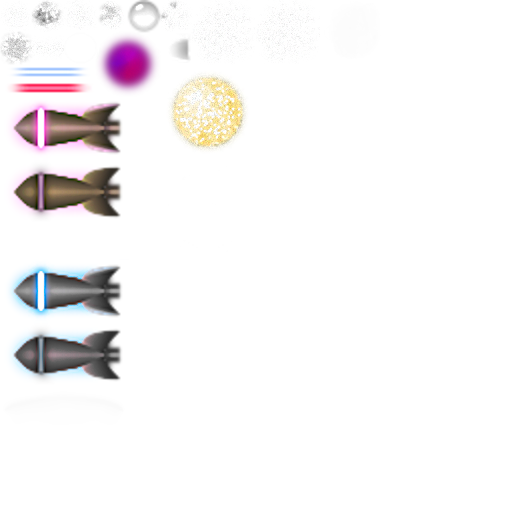
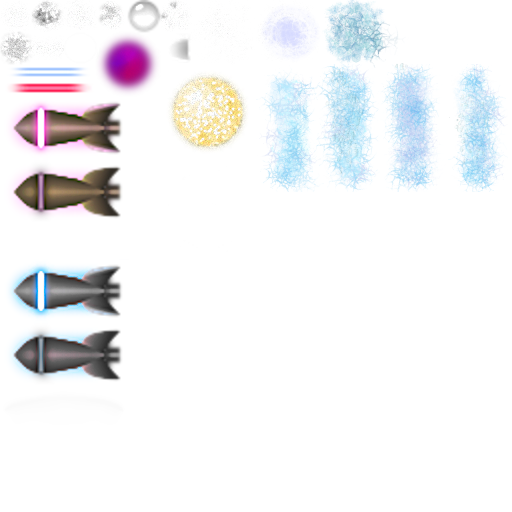
ammo new look

diff --git a/src/Particles/AmmoLightning.cpp b/src/Particles/AmmoLightning.cpp
@@ -17,6 +17,8 @@ this program.  If not, see <http://www.gnu.org/licenses/>. */
 
 #include "Particles/AmmoLightning.hpp"
 
+#include "SpaceObjects/physics.hpp"
+#include "System/Vector2f.hpp"
 #include "System/timer.hpp"
 #include "System/settings.hpp"
 #include "Particles/particles.hpp"
@@ -31,15 +33,22 @@ AmmoLightning::AmmoLightning(
     Vector2f const& location, Vector2f const& direction,
     Vector2f const& velocity, Color3f const& color,
     Player* damageSource)
-    :Particle<AmmoLightning>(spaceObjects::oAmmoLightning, location, 8.f, 1.0f, randomizer::random(12.f, 15.f))
+    :Particle<AmmoLightning>(spaceObjects::oAmmoLightning, location, 8.f, 0.001f, randomizer::random(0.4f, 1.5f))
 {
+    cloud_ = true;
     setDamageSource(damageSource);
-    velocity_ = velocity + direction*900;
+    Vector2f side(direction.y_, -direction.x_);
+
+    velocity_ = velocity + direction * randomizer::random(1500.f, 2400.f) +
+        200.f * side * randomizer::random(-1.f, 1.f) +
+        Vector2f::randDir() * randomizer::random(0.f, 100.f);
+    acceleration_ = -randomizer::random(300.f, 600.f);
+
     location_ += velocity_*timer::frameTime()*1.2f;
+    radius_ = randomizer::random(6.f, 9.f) * 4.f;
+    size_ = radius_;
 
-    radius_ = randomizer::random(6.f, 8.f);
-
-    color_ = Color3f(randomizer::random(0.0f, 0.4f), randomizer::random(0.8f, 1.f), randomizer::random(0.0f, 0.4f));
+    color_ = Color3f(randomizer::random(0.5f, 0.9f), randomizer::random(0.6f, 0.8f), 1.f);
 }
 
 
@@ -47,44 +56,61 @@ void AmmoLightning::update()
 {
     float time = timer::frameTime();
 
-    physics::collide(this, STATICS | MOBILES | PARTICLES);
-    Vector2f acceleration = physics::attract(this)*0.8f;
+    physics::overlap(this, MOBILES);
 
-    if (lifeTime_ > totalLifeTime_-0.3f)
-        radius_ = -400.0 * pow(lifeTime_+0.2-totalLifeTime_, 2)+12;
+    radius_ = size_ + 1400.f * std::min(2.f, 3.f * lifeTime_);
 
-    location_ += velocity_*time + acceleration*time*time;
-    velocity_ += acceleration*time - 2.5f*velocity_*time;
+    location_ += velocity_*time;
+    Vector2f const dir(velocity_.normalize());
+    velocity_ += acceleration_ * dir * time;
     borders();
 
     lifeTime_ += time;
-
-    if (lifeTime_ > totalLifeTime_)
-    {
-        particles::spawnMultiple(2, particles::pMud, location_, Vector2f(), Vector2f(), color_);
-        sound::playSound(sound::BlubCollide, location_);
-
-        int rand = randomizer::random(8, 20);
-        // for (int i=0; i < rand; ++i)
-        //     particles::spawn(particles::pMiniAmmoLightning, location_, Vector2f(), Vector2f(), Color3f(), damageSource_);
-    }
 }
 
 //  draw
 void AmmoLightning::draw() const
 {
-    color_.gl4f(0.8f);
-    const int u = 4, v = 0;
-    uv8(u, v);      glVertex2f(location_.x_-radius_, location_.y_-radius_);
-    uv8(u, v+1);    glVertex2f(location_.x_-radius_, location_.y_+radius_);
-    uv8(u+1, v+1);  glVertex2f(location_.x_+radius_, location_.y_+radius_);
-    uv8(u+1, v);    glVertex2f(location_.x_+radius_, location_.y_-radius_);
+    float a = 0.1f + 0.2f * std::min(1.f, 3.2f * lifeTime_ / totalLifeTime_);
+    a *= 0.7f * (totalLifeTime_ - lifeTime_) / totalLifeTime_;
+
+    Vector2f dir(velocity_.normalize() * 100.f);
+    Vector2f side(dir.y_, -dir.x_);
+    side *= 1.2f;
+    const Vector2f
+        topL(location_ + side + dir), topL2(location_ + side*0.38f + dir*1.3f), topL3(location_ + side*1.1f + dir*1.51f),
+        topR(location_ + side - dir), topR2(location_ + side*0.36f - dir*1.6f), topR3(location_ + side*0.9f - dir*1.57f),
+        btmL(location_ - side + dir), btmL2(location_ - side*0.47f + dir*2.4f), btmL3(location_ - side*1.3f + dir*1.53f),
+        btmR(location_ - side - dir), btmR2(location_ - side*0.45f - dir*2.7f), btmR3(location_ - side*0.7f - dir*1.51f);
+
+    int v = 2, u;
+    color_.gl4f(a * 0.9f + 0.1f * sinf(0.5f + lifeTime_ * 23.f));
+    u = 8 + ((int)(lifeTime_ * 26.f) % 4) * 2;
+    uv8(u,   v+4);  glVertex2f(topL.x_, topL.y_);
+    uv8(u+2, v+4);  glVertex2f(btmL.x_, btmL.y_);
+    uv8(u+2, v);    glVertex2f(btmR.x_, btmR.y_);
+    uv8(u,   v);    glVertex2f(topR.x_, topR.y_);
+
+    color_.brightened().gl4f(a * 2.5f + 0.07f * cosf(lifeTime_ * 53.f));
+    u = 8 + ((int)(lifeTime_ * 36.f) % 4) * 2;
+    uv8(u,   v);    glVertex2f(topL2.x_, topL2.y_);
+    uv8(u+2, v);    glVertex2f(btmL2.x_, btmL2.y_);
+    uv8(u+2, v+4);  glVertex2f(btmR2.x_, btmR2.y_);
+    uv8(u,   v+4);  glVertex2f(topR2.x_, topR2.y_);
+
+    color_.gl4f(a * 1.2f + 0.05f * sinf(lifeTime_ * 67.f));
+    u = 8 + ((int)(lifeTime_ * 56.f) % 4) * 2;
+    uv8(u,   v);    glVertex2f(topL3.x_, topL3.y_);
+    uv8(u+2, v);    glVertex2f(btmL3.x_, btmL3.y_);
+    uv8(u+2, v+4);  glVertex2f(btmR3.x_, btmR3.y_);
+    uv8(u,   v+4);  glVertex2f(topR3.x_, topR3.y_);
 }
 
 
 void AmmoLightning::onCollision(SpaceObject* with, Vector2f const& location,
                         Vector2f const& direction, Vector2f const& velocity)
 {
+    return;
     if (!isDead() &&
         with->type() != spaceObjects::oAmmoLightning /*&&
         with->type() != spaceObjects::oMiniAmmoLightning*/)

diff --git a/src/Particles/AmmoPlasma.cpp b/src/Particles/AmmoPlasma.cpp
@@ -36,14 +36,13 @@ AmmoPlasma::AmmoPlasma(Vector2f const& location, Vector2f const& direction, Vect
 {
     setDamageSource(damageSource);
     velocity_ = velocity + direction * 1500;
-    location_ += velocity_*timer::frameTime()*1.2f;
+    location_ += velocity_ * timer::frameTime()*1.2f;
 
     radius_ = randomizer::random(7.f, 11.f) * 3.f;
 
-    // color_ = Color3f(randomizer::random(0.2f, 0.8f), randomizer::random(0.8f, 1.f), randomizer::random(0.0f, 0.6f));
-    color_ = Color3f(randomizer::random(0.2f, 0.7f), randomizer::random(0.8f, 1.f), randomizer::random(0.9f, 1.f));
+    color_ = Color3f(randomizer::random(0.3f, 0.7f), randomizer::random(0.8f, 1.f), randomizer::random(0.9f, 1.f));
 
-    trailEffects::attach(this, 0.05, 0.2f, radius_ * 2.5f, Color3f(0.04f, 0.31f, randomizer::random(0.28f, 0.35f)), false);
+    trailEffects::attach(this, 0.05, 0.1f, radius_ * 3.f, Color3f(0.04f, 0.31f, randomizer::random(0.28f, 0.35f)), false);
 }
 
 AmmoPlasma::~AmmoPlasma()
@@ -69,19 +68,44 @@ void AmmoPlasma::update()
         particles::spawnMultiple(2, particles::pMud, location_, Vector2f(), Vector2f(), color_);
         int rand = randomizer::random(8, 20);
         sound::playSound(sound::BlubCollide, location_);
-        // for (int i=0; i<rand; ++i)
+        // for (int i=0; i < rand; ++i)
         //     particles::spawn(particles::pMiniAmmoPlasma, location_, Vector2f(), Vector2f(), Color3f(), damageSource_);
     }
 }
 
+//  draw
 void AmmoPlasma::draw() const
 {
-    color_.gl4f(0.6f);
-    const int u = 0, v = 1;
-    uv8(u, v);      glVertex2f(location_.x_-radius_, location_.y_-radius_);
-    uv8(u, v+1);    glVertex2f(location_.x_-radius_, location_.y_+radius_);
-    uv8(u+1, v+1);  glVertex2f(location_.x_+radius_, location_.y_+radius_);
-    uv8(u+1, v);    glVertex2f(location_.x_+radius_, location_.y_-radius_);
+    const int u = 8, v = 0;
+    const float
+        angle [3] = {12.f,-17.f, 31.f},
+        radius[3] = {1.6f, 1.2f, 0.5f},
+        alpha [3] = {0.3f, 0.4f, 0.3f};
+    
+    for (int i=0; i < 3; ++i)
+    {
+        float a = lifeTime_ * angle[i];
+        Vector2f dir(cosf(a), -sinf(a));
+        
+        dir *= radius_ * radius[i];
+        Vector2f side(dir.y_, -dir.x_);
+        
+        const Vector2f
+            topL(location_ + dir + side),
+            topR(location_ + dir - side),
+            btmL(location_ - dir + side),
+            btmR(location_ - dir - side);
+
+        // if (i==2)
+        //     glColor4f(0.8f, 0.95f, 1.f, alpha[i]);
+        //     color_.brightened().gl4f(alpha[i]);
+        // else
+            color_.gl4f(alpha[i]);
+        uv8(u,   v+2);  glVertex2f(topL.x_, topL.y_);
+        uv8(u+2, v+2);  glVertex2f(btmL.x_, btmL.y_);
+        uv8(u+2, v);    glVertex2f(btmR.x_, btmR.y_);
+        uv8(u,   v);    glVertex2f(topR.x_, topR.y_);
+    }
 }
 
 void AmmoPlasma::onCollision(SpaceObject* with, Vector2f const& location,

diff --git a/src/Particles/AmmoCloud.cpp b/src/Particles/AmmoCloud.cpp
@@ -23,6 +23,7 @@ this program.  If not, see <http://www.gnu.org/licenses/>. */
 #include "TrailEffects/trailEffects.hpp"
 #include "Media/sound.hpp"
 #include "System/randomizer.hpp"
+#include <cmath>
 
 
 std::list<AmmoCloud*> AmmoCloud::activeParticles_;
@@ -58,8 +59,8 @@ void AmmoCloud::update()
 
     location_ += velocity_*time;  // + acceleration*time*time;
     // velocity_ += acceleration*time + 0.1f*velocity_*time;
-    Vector2f const faceDirection(velocity_.normalize());
-    velocity_ += acceleration_ * faceDirection * time;
+    Vector2f const dir(velocity_.normalize());
+    velocity_ += acceleration_ * dir * time;
     radius_ = 84.f + 120.4f * lifeTime_ / totalLifeTime_;
     borders();
 
@@ -67,12 +68,8 @@ void AmmoCloud::update()
     spawnTime_ += time;
 
     if (lifeTime_ > totalLifeTime_)
-    {
-        // particles::spawnMultiple(2, particles::pMud, location_, Vector2f(), Vector2f(), color_);
-        // int rand = randomizer::random(8, 20);
-        // sound::playSound(sound::BlubCollide, location_);
         killMe();
-    }else
+    else
     if (lifeTime_ < 2)
     {
         if (spawnTime_ > 0.1f) //+ 0.1f * lifeTime_)
@@ -88,12 +85,21 @@ void AmmoCloud::update()
 
 void AmmoCloud::draw() const
 {
-    color_.gl4f(0.5f - 0.4f * lifeTime_ / totalLifeTime_);
+    const float r = radius_, r2 = radius_ * 1.3f;
+    // color_.gl4f(0.1f - 0.1f * lifeTime_ / totalLifeTime_);
+    color_.gl4f(0.4f * (0.7f + 0.3f * sinf(2.f * lifeTime_ / totalLifeTime_ * M_PI)));
     const int u = 0, v = 0;
-    uv8(u, v);      glVertex2f(location_.x_-radius_, location_.y_-radius_);
-    uv8(u, v+1);    glVertex2f(location_.x_-radius_, location_.y_+radius_);
-    uv8(u+1, v+1);  glVertex2f(location_.x_+radius_, location_.y_+radius_);
-    uv8(u+1, v);    glVertex2f(location_.x_+radius_, location_.y_-radius_);
+    uv8(u, v);      glVertex2f(location_.x_ - r, location_.y_ - r);
+    uv8(u, v+1);    glVertex2f(location_.x_ - r, location_.y_ + r);
+    uv8(u+1, v+1);  glVertex2f(location_.x_ + r, location_.y_ + r);
+    uv8(u+1, v);    glVertex2f(location_.x_ + r, location_.y_ - r);
+    
+    color_.gl4f(0.3f * sinf(lifeTime_ / totalLifeTime_ * M_PI));
+    const int u2 = 10, v2 = 0;
+    uv8(u2,   v2);    glVertex2f(location_.x_ - r2, location_.y_ - r2);
+    uv8(u2,   v2+2);  glVertex2f(location_.x_ - r2, location_.y_ + r2);
+    uv8(u2+2, v2+2);  glVertex2f(location_.x_ + r2, location_.y_ + r2);
+    uv8(u2+2, v2);    glVertex2f(location_.x_ + r2, location_.y_ - r2);
 }
 
 void AmmoCloud::onCollision(SpaceObject* with, Vector2f const& location,

diff --git a/src/Particles/AmmoH2OStorm.cpp b/src/Particles/AmmoH2OStorm.cpp
@@ -37,8 +37,9 @@ AmmoH2OStorm::AmmoH2OStorm(Vector2f const& location, Vector2f const& direction, 
 
     radius_ = randomizer::random(15.f, 23.f);
 
-    color_ = 0.7f * Color3f(randomizer::random(0.4f, 0.9f), randomizer::random(0.7f, 1.f), randomizer::random(0.9f, 1.0f));
-    index_ = rand() % 3;
+    color_ = 0.7f * Color3f(randomizer::random(0.4f, 0.8f), randomizer::random(0.7f, 1.f), randomizer::random(0.9f, 1.0f));
+    // index_ = rand() % 6;  //3
+    index_ = 3 + rand() % 3;
 }
 
 
@@ -67,12 +68,21 @@ void AmmoH2OStorm::update()
 
 void AmmoH2OStorm::draw() const
 {
-    color_.gl4f(0.8f);  // alpha
-    const int u = index_, v = 0;
-    uv8(u, v);      glVertex2f(location_.x_-radius_, location_.y_-radius_);
-    uv8(u, v+1);    glVertex2f(location_.x_-radius_, location_.y_+radius_);
-    uv8(u+1, v+1);  glVertex2f(location_.x_+radius_, location_.y_+radius_);
-    uv8(u+1, v);    glVertex2f(location_.x_+radius_, location_.y_-radius_);
+    const float r = radius_ * 1.3f;
+    color_.gl4f(0.6f);  // alpha
+    if (index_ >= 3)
+    {   const int u = 6 + 2 * (index_-3), v = 0;
+        uv8(u,   v);    glVertex2f(location_.x_ - r, location_.y_ - r);
+        uv8(u,   v+2);  glVertex2f(location_.x_ - r, location_.y_ + r);
+        uv8(u+2, v+2);  glVertex2f(location_.x_ + r, location_.y_ + r);
+        uv8(u+2, v);    glVertex2f(location_.x_ + r, location_.y_ - r);
+    }else
+    {   const int u = index_, v = 0;
+        uv8(u,   v);    glVertex2f(location_.x_ - r, location_.y_ - r);
+        uv8(u,   v+1);  glVertex2f(location_.x_ - r, location_.y_ + r);
+        uv8(u+1, v+1);  glVertex2f(location_.x_ + r, location_.y_ + r);
+        uv8(u+1, v);    glVertex2f(location_.x_ + r, location_.y_ - r);
+    }
 }
 
 void AmmoH2OStorm::onCollision(SpaceObject* with, Vector2f const& location,

diff --git a/src/Particles/AmmoFreezers.cpp b/src/Particles/AmmoFreezers.cpp
@@ -93,9 +93,9 @@ void AmmoFreezers::draw() const
     color_.gl4f(0.6f);
     const int u = 10, v = 0;
     uv8(u, v);      glVertex2f(location_.x_-radius_, location_.y_-radius_);
-    uv8(u,   v+3);  glVertex2f(location_.x_-radius_, location_.y_+radius_);
-    uv8(u+3, v+3);  glVertex2f(location_.x_+radius_, location_.y_+radius_);
-    uv8(u+3, v);    glVertex2f(location_.x_+radius_, location_.y_-radius_);
+    uv8(u,   v+2);  glVertex2f(location_.x_-radius_, location_.y_+radius_);
+    uv8(u+2, v+2);  glVertex2f(location_.x_+radius_, location_.y_+radius_);
+    uv8(u+2, v);    glVertex2f(location_.x_+radius_, location_.y_-radius_);
 }
 
 void AmmoFreezers::onCollision(SpaceObject* with, Vector2f const& location,

diff --git a/src/Particles/particles.cpp b/src/Particles/particles.cpp
@@ -370,9 +370,9 @@ namespace particles
         //  new 2
         // AmmoPulse::collideWith(target);
         // AmmoCloud::collideWith(target);
-        AmmoFreezers::collideWith(target);
+        // AmmoFreezers::collideWith(target);
         AmmoLaser::collideWith(target);
-        AmmoLightning::collideWith(target);
+        // AmmoLightning::collideWith(target);
 
         AmmoMinigun::collideWith(target);
         AmmoGauss::collideWith(target);

diff --git a/include/Particles/AmmoLightning.hpp b/include/Particles/AmmoLightning.hpp
@@ -35,6 +35,7 @@ class AmmoLightning: public Particle<AmmoLightning>
         friend class Particle<AmmoLightning>;
 
     private:
+        float size_;
         Color3f color_;
         static std::list<AmmoLightning*> activeParticles_;
 };
